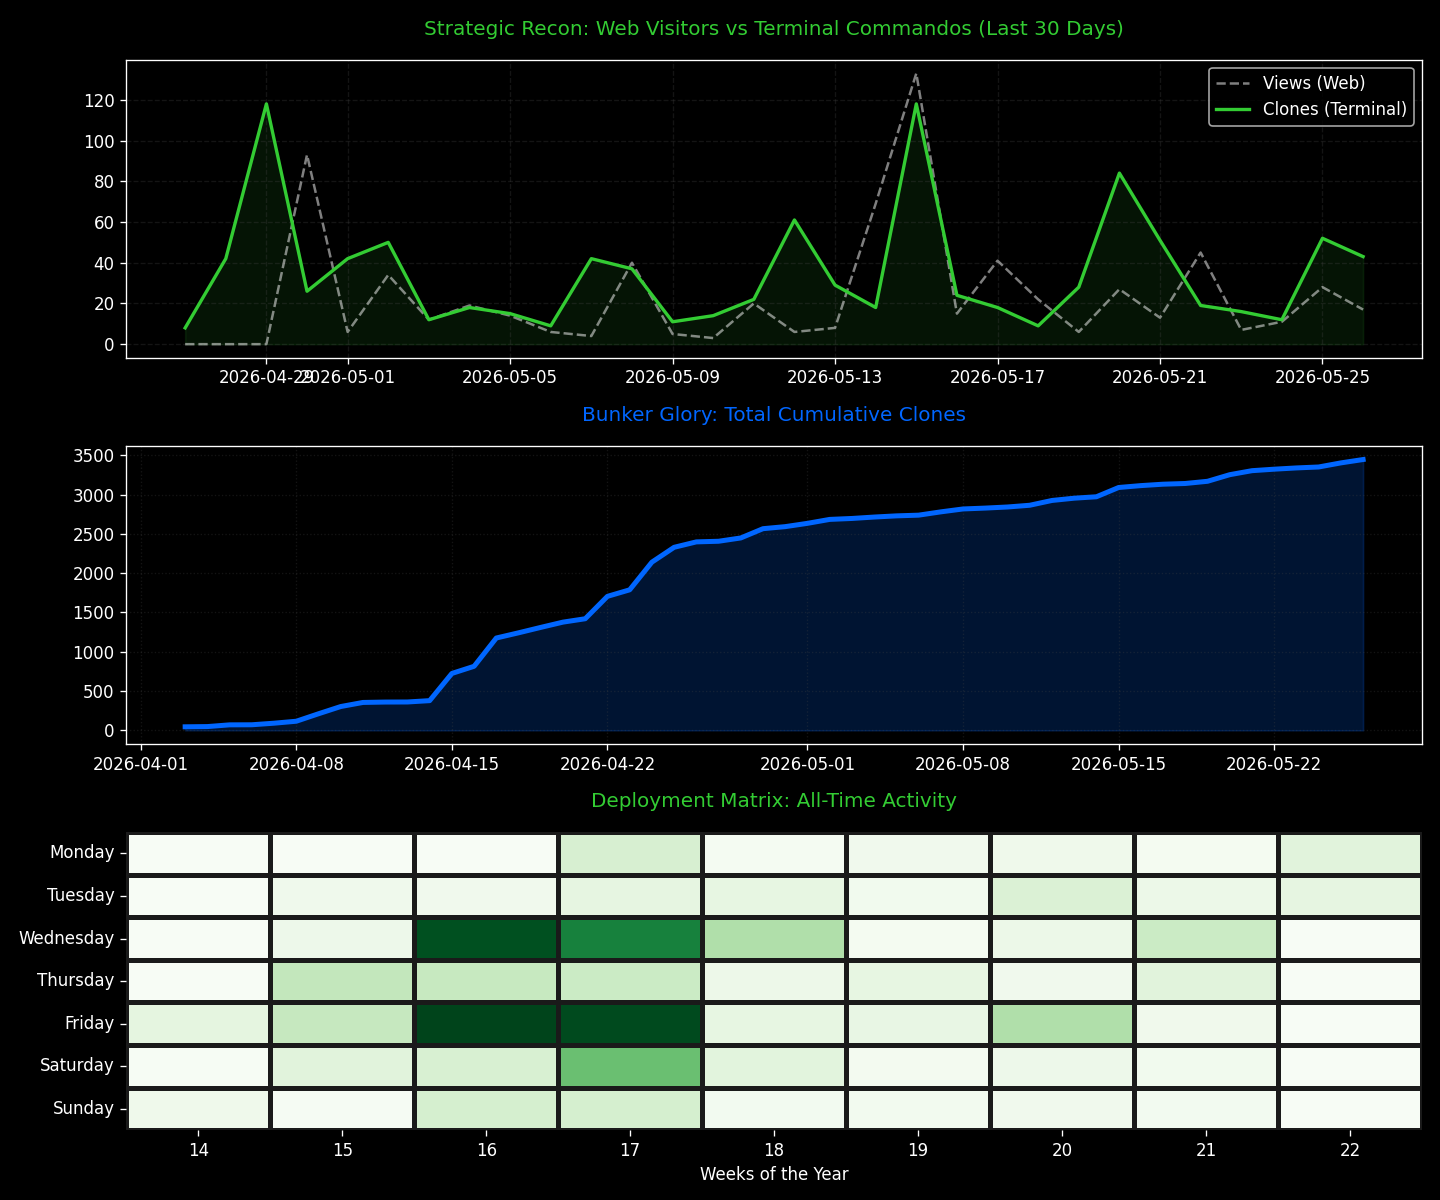
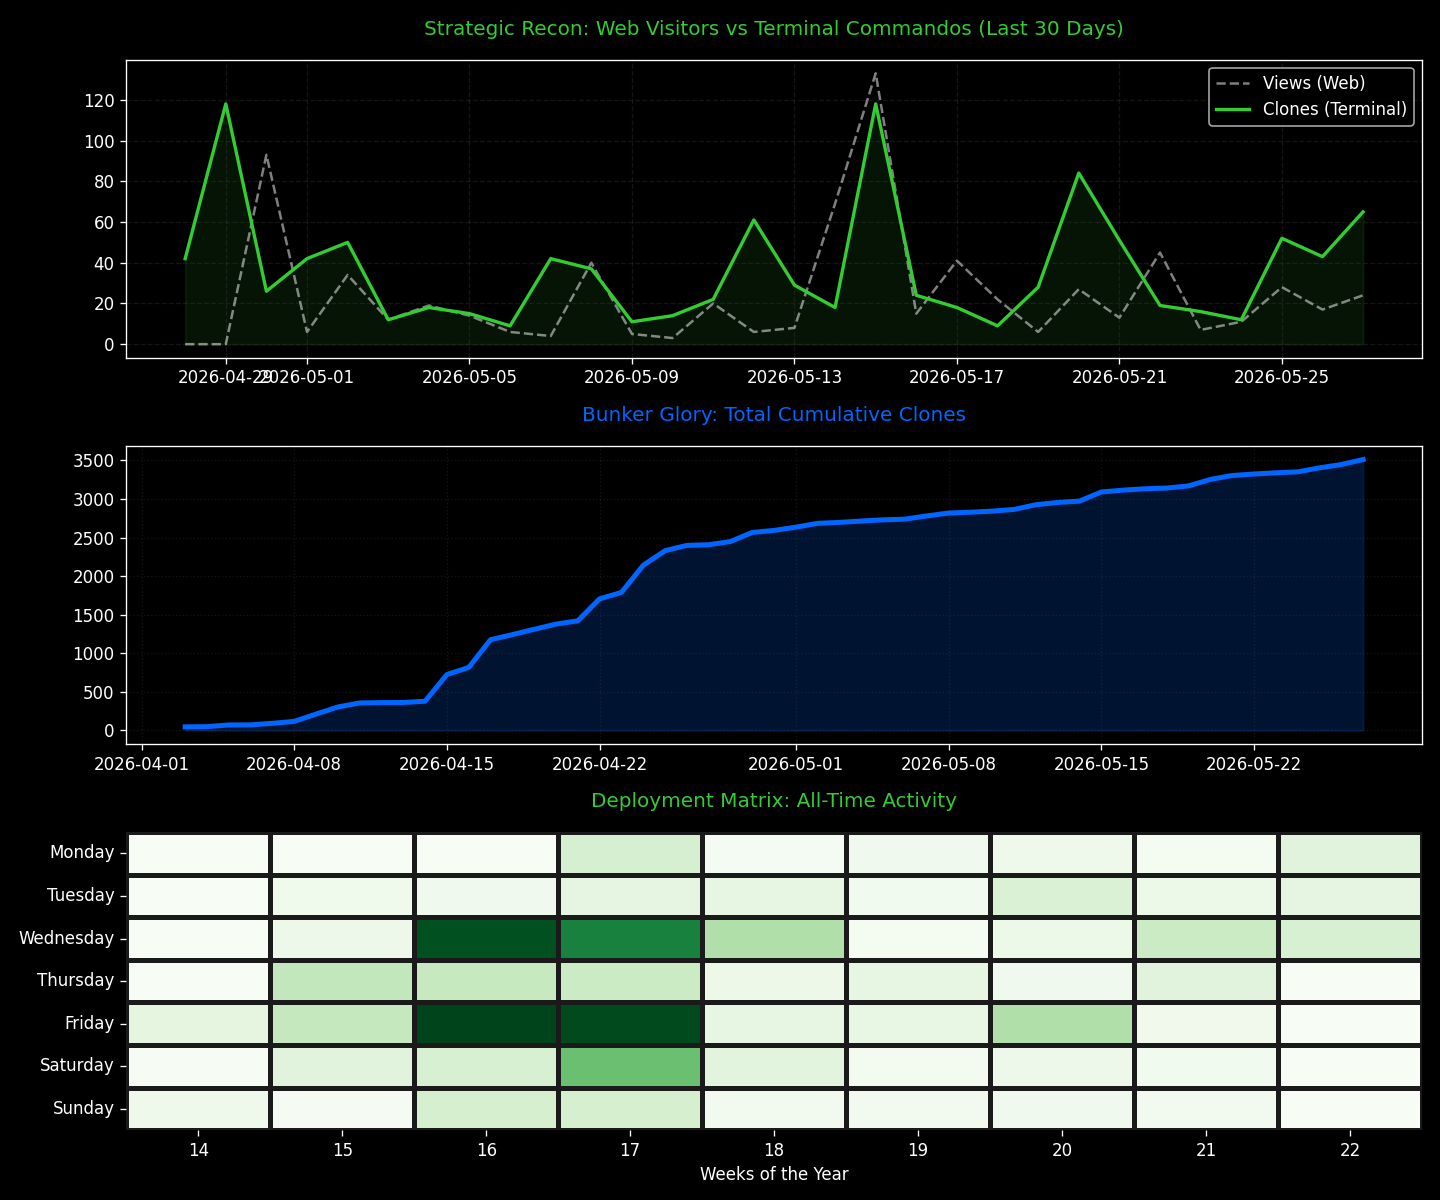
chore: sovereign update v7.0 - total 3511

diff --git a/README.md b/README.md
@@ -1,6 +1,6 @@
 # 🛰 地堡终极运行报告 (Sovereign Dashboard)
 ## 📊 核心战力指标
-- **物理克隆总计**: `3446` 次
+- **物理克隆总计**: `3511` 次
 - **当前社群声望**: ⭐ `2` / 🍴 `0`
 - **地堡协议防护**: AGPL-3.0 生效中
 
@@ -11,4 +11,4 @@
 | 来源站点 | 访问量 | 独立指挥官 |
 | :--- | :--- | :--- |
 
-> 📡 数据已物理封存：2026-05-27 21:28:35 CST | Glory to Mankind.
+> 📡 数据已物理封存：2026-05-28 21:34:25 CST | Glory to Mankind.
